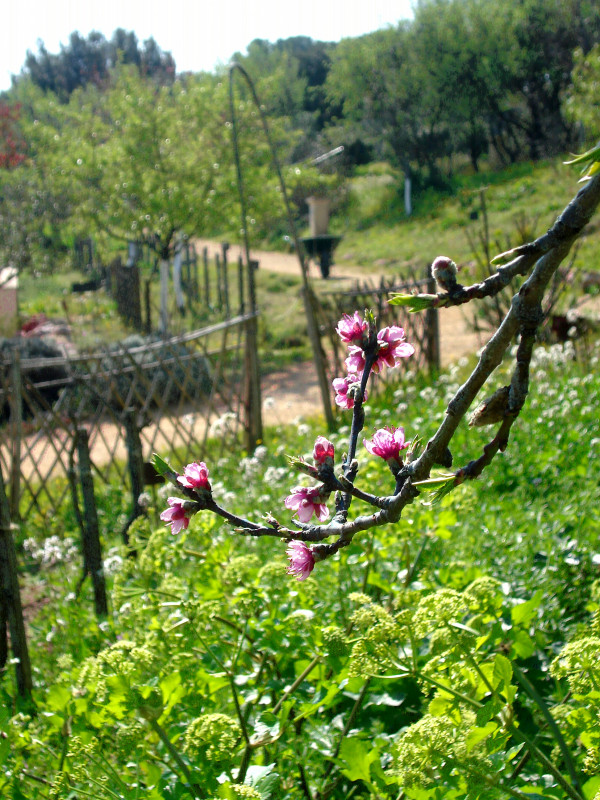
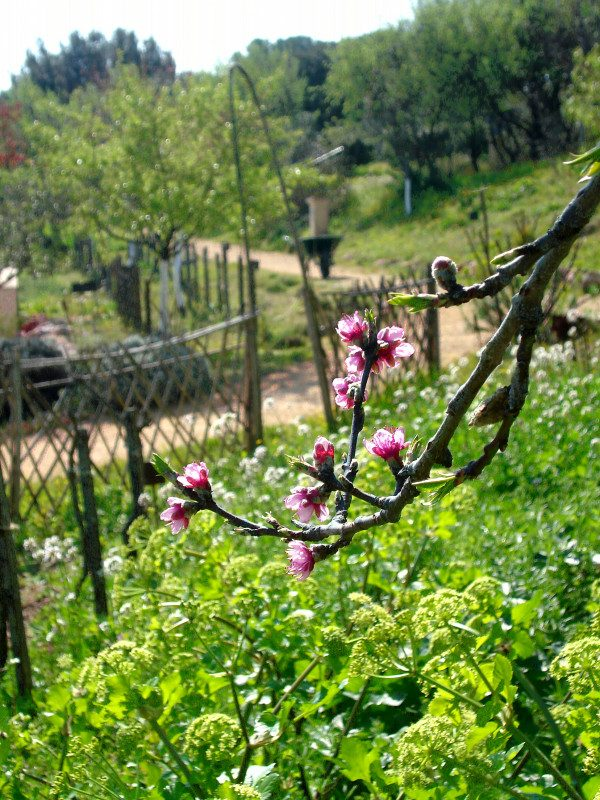
Optimize images and clean residual filter code
- Compress/resize assets (-52%, 4132Ko->2008Ko)
- Convert sete-musee.png photo to JPEG
- Remove unused emptyState filter remnant; simplify count label

diff --git a/index.html b/index.html
@@ -696,7 +696,6 @@
         <span class="count" id="resultCount"></span>
       </div>
 
-      <div class="empty" id="emptyState">Aucune proposition à afficher.</div>
       <div class="cards" id="cards"></div>
     </section>
 
@@ -841,7 +840,7 @@
         title: "S&egrave;te : canaux, mus&eacute;e Paul Val&eacute;ry et Th&eacute;&acirc;tre de la Mer",
         emoji: "",
         theme: "theme-event",
-        image: "assets/sete-musee.png",
+        image: "assets/sete-musee.jpg",
         imageLabel: "Mus&eacute;e Paul Val&eacute;ry &agrave; S&egrave;te",
         drive: "40-50 min",
         destination: "S&egrave;te",
@@ -1300,7 +1299,6 @@
 
     const cards = document.querySelector("#cards");
     const resultCount = document.querySelector("#resultCount");
-    const emptyState = document.querySelector("#emptyState");
 
     function hourLabel(value) {
       const hour = Math.floor(value);
@@ -1359,8 +1357,7 @@
     }
 
     function renderCards() {
-      resultCount.textContent = `${outings.length} / ${outings.length} propositions`;
-      emptyState.classList.toggle("visible", outings.length === 0);
+      resultCount.textContent = `${outings.length} sorties`;
       cards.innerHTML = outings.map(outing => `
         <article class="outing ${outing.theme}" id="${outing.id}">
           <div class="outing-left">
